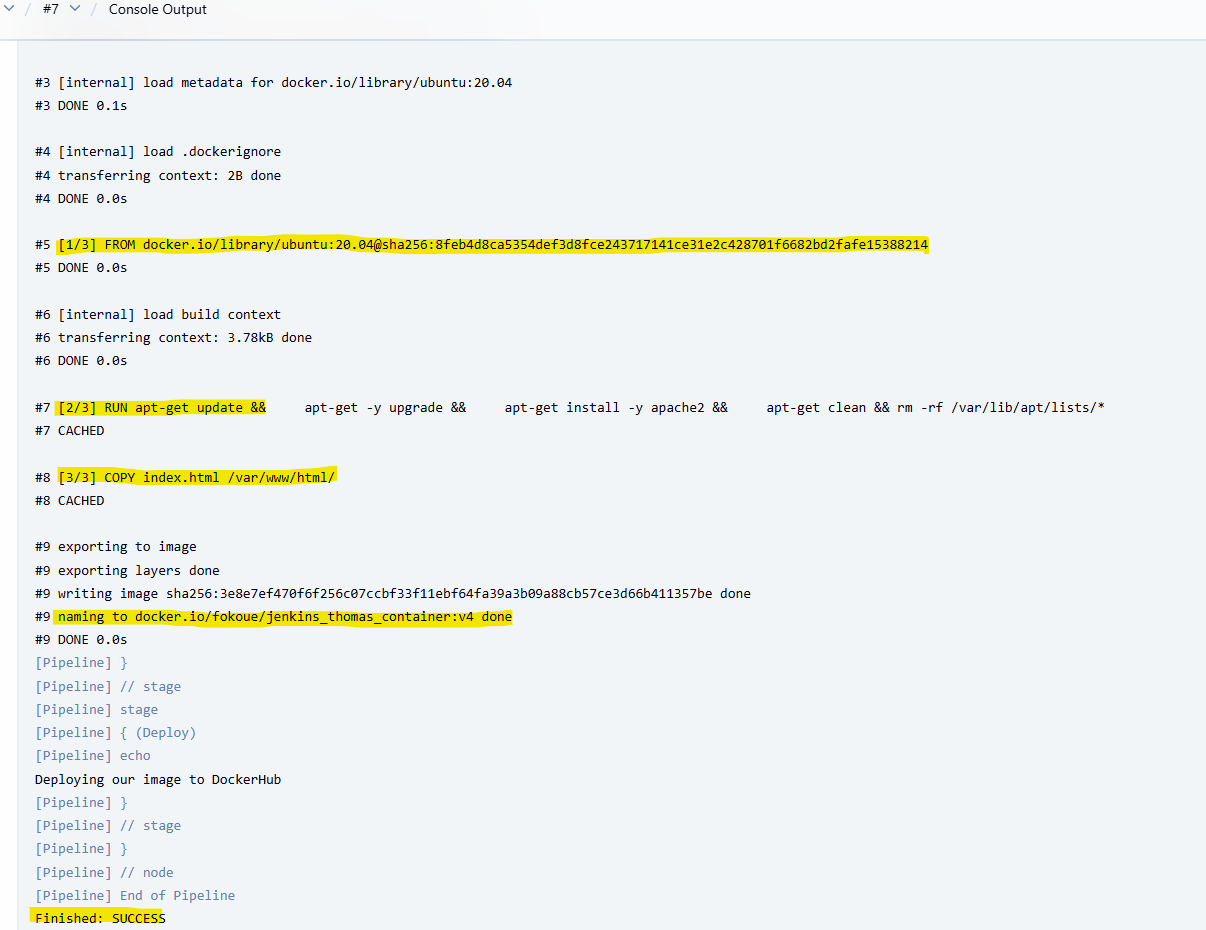
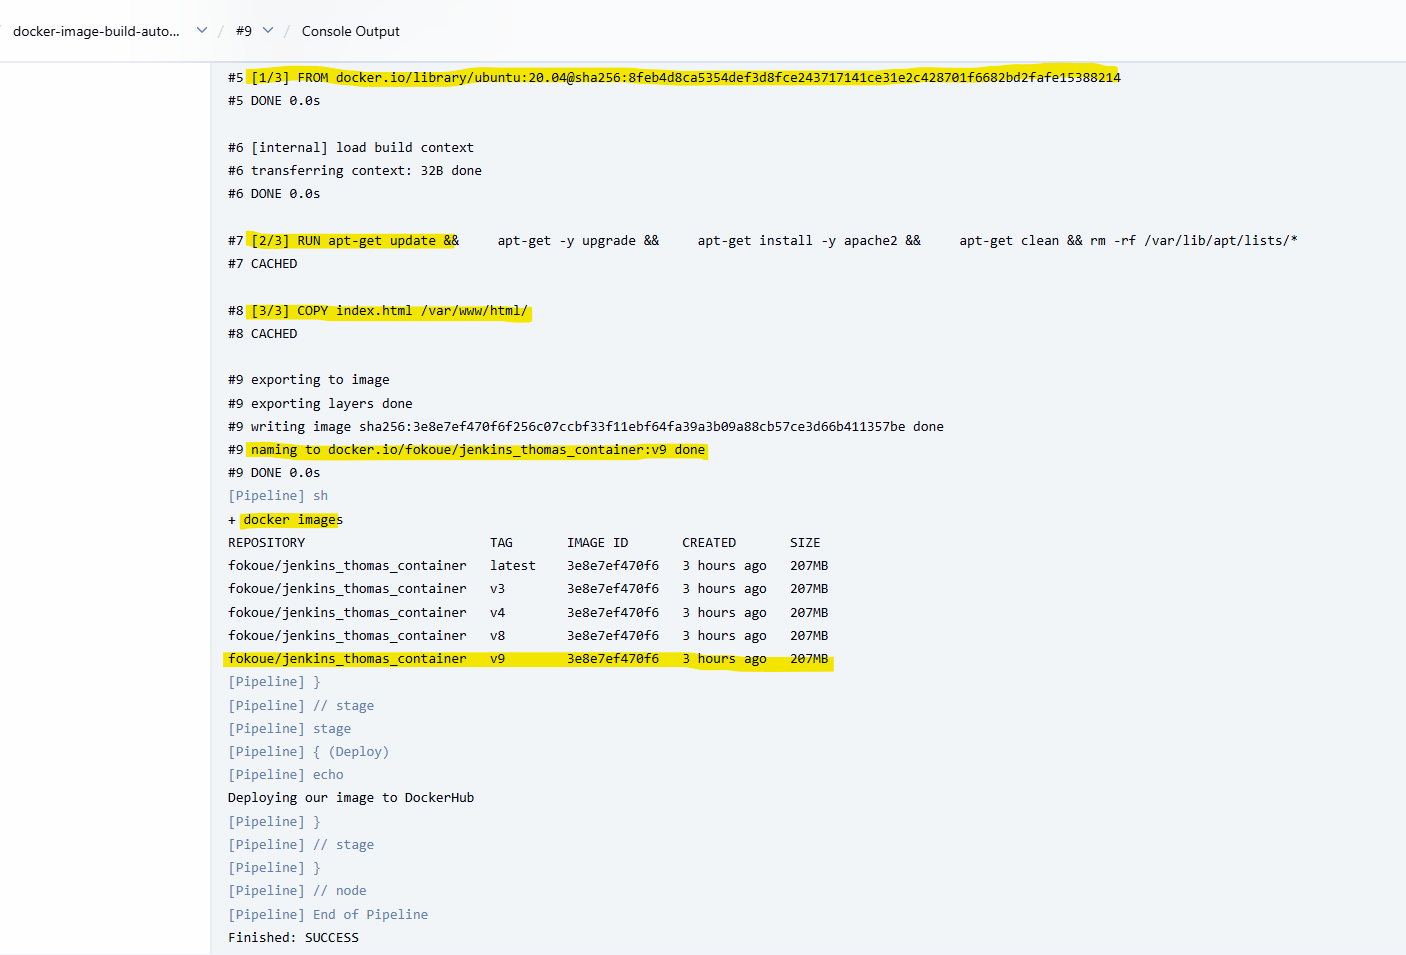
readme

diff --git a/README.md b/README.md
@@ -157,10 +157,11 @@ pipeline {
 ### 7. Deploy Stage: let edite our Pipeline edge of Script
 1. Let go back to `Configure` of the newly created pipeline juste below the `Hello World` pipeline we created and select `Pipeline Syntax`
 2. From there let select `sh:Shell Script`
-3. On the Shell Script add the following command 
+3. On the Shell Script add the following command that will allow us to build an image based on our Dockerfile
 ```
  docker build -t fokoue/jenkins_thomas_container:v4 .
 ```
+
 4. Then click on `Generate Pipeline Script` and copy it 
 ![Alt text](images/build-syntax.png)
 
@@ -186,6 +187,7 @@ pipeline {
             steps {
                 echo 'Building our Docker image'
                 sh ' docker build -t fokoue/jenkins_thomas_container:v${BUILD_NUMBER} .'
+                sh 'docker images'
             }
         }
 
